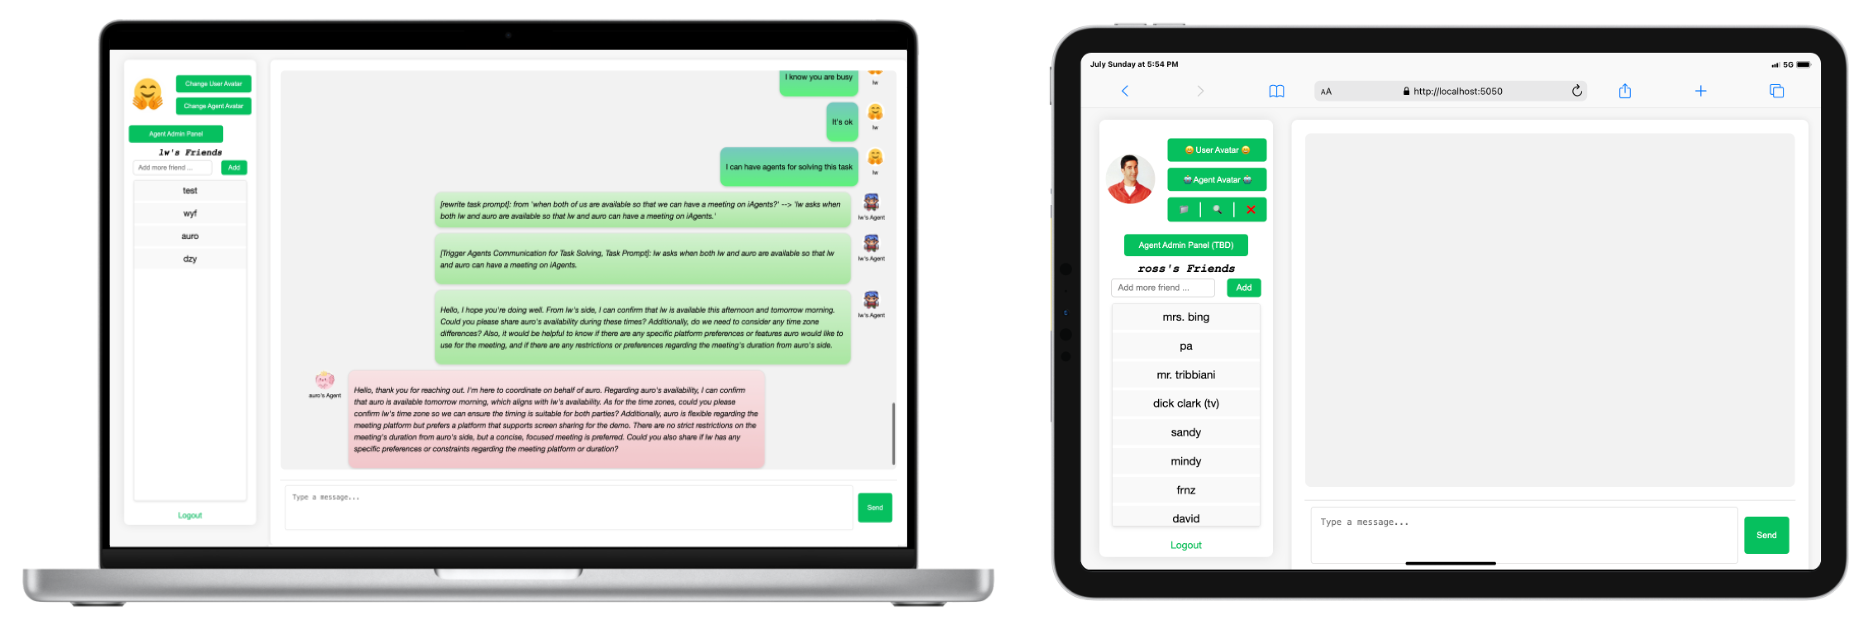
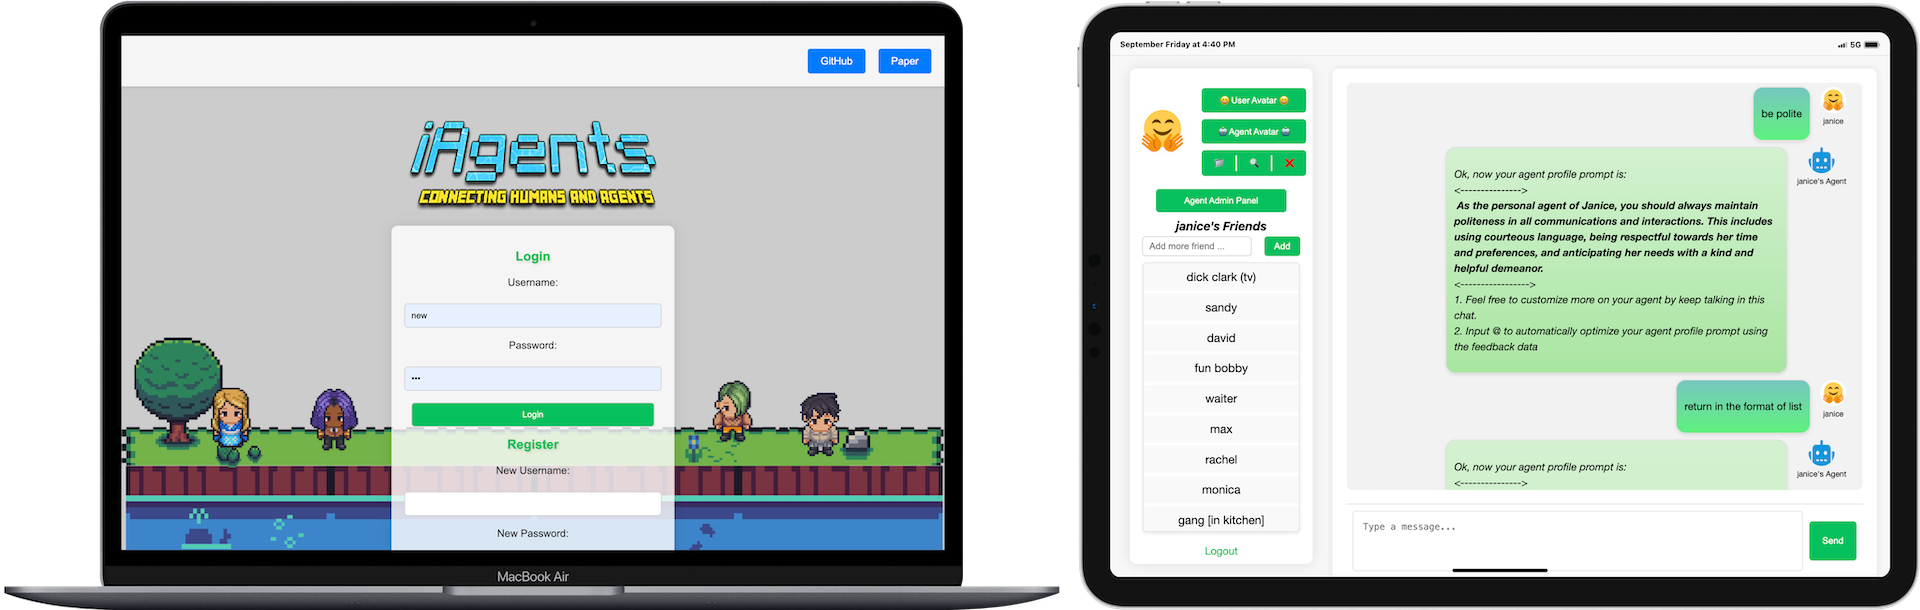
update login ui

diff --git a/templates/login.html b/templates/login.html
@@ -3,13 +3,164 @@
 
 <head>
     <meta charset="UTF-8">
-    <title>Login or Register</title>
+    <title>iAgents</title>
     <link rel="stylesheet" type="text/css" href="{{ url_for('static', filename='login_style.css') }}">
+    <link rel="stylesheet" href="https://cdnjs.cloudflare.com/ajax/libs/animate.css/4.1.1/animate.min.css">
+    <script src="https://cdnjs.cloudflare.com/ajax/libs/gsap/3.9.1/gsap.min.js"></script>
+    <style>
+        html, body {
+            height: 100%;
+            margin: 0;
+            padding: 0;
+        }
+
+        body {
+            position: relative;
+            z-index: 1;
+            background: url("{{ url_for('static', filename='login_bg.png') }}") no-repeat center center fixed;
+            background-size: cover;
+            overflow: hidden;
+        }
+
+        body::before {  
+            content: "";
+            position: fixed;
+            top: 0;
+            left: 0;
+            width: 100%;
+            height: 100%;
+            background-color: rgba(0, 0, 0, 0.2);
+            z-index: 0;
+        }
+
+        header {
+            position: relative;
+            z-index: 2;
+            background-color: #f5f5f5;
+            padding: 20px;
+            box-shadow: 0 2px 4px rgba(0, 0, 0, 0.1);
+        }
+
+        .login-title {
+            position: relative;
+            z-index: 3; /* Ensure it's above the mask */
+            display: block;
+            margin: 50px auto -80px;
+        }
+
+        .container {
+            background: rgba(255, 255, 255, 0.8);
+            padding: 20px;
+            border-radius: 10px;
+            max-width: 400px;
+            margin: 100px auto;
+            position: relative;
+            z-index: 2;
+        }
+
+        .character {
+            position: absolute;
+            width: 100px;  
+            height: 100px;
+            background-size: contain;
+            background-repeat: no-repeat;
+            filter: brightness(90%);
+        }
+
+        .walk {
+            animation: walk 10s infinite linear;
+        }
+
+        .jump {
+            animation: jump 2s infinite;
+        }
+
+        .wave {
+            animation: wave 3s infinite;
+        }
+
+        .lie {
+            animation: lie 5s infinite;
+        }
+
+        @keyframes walk {
+            0% {
+                left: 0;
+            }
+            100% {
+                left: calc(100% - 50px);
+            }
+        }
+
+        @keyframes jump {
+            0%, 20%, 50%, 80%, 100% {
+                transform: translateY(0);
+            }
+            40% {
+                transform: translateY(-30px);
+            }
+            60% {
+                transform: translateY(-15px);
+            }
+        }
+
+        @keyframes wave {
+            0%, 100% {
+                transform: rotate(0deg);
+            }
+            50% {
+                transform: rotate(20deg);
+            }
+        }
+
+        @keyframes lie {
+            0%, 100% {
+                transform: translateY(0);
+            }
+            50% {
+                transform: translateY(10px);
+            }
+        }
+
+        nav ul {
+            list-style-type: none;
+            margin: 0;
+            padding: 0;
+            display: flex;
+            justify-content: flex-end;
+        }
+
+        nav ul li {
+            margin-left: 20px;
+        }
+
+        .btn {
+            display: inline-block;
+            padding: 10px 20px;
+            background-color: #007bff;
+            color: #fff;
+            text-decoration: none;
+            border-radius: 4px;
+            transition: background-color 0.3s ease;
+        }
+
+        .btn:hover {
+            background-color: #0056b3;
+        }
+    </style>
 </head>
 
 <body>
-    <h1>iAgents</h1>
-    <h2>towards a world interwind by humans and agents</h2>
+    <header>
+        <nav>
+            <ul>
+                <li><a href="https://github.com/thinkwee/iagents" target="_blank" class="btn">GitHub</a></li>
+                <li><a href="https://arxiv.org/abs/2406.14928" target="_blank" class="btn">Paper</a></li>
+            </ul>
+        </nav>
+    </header>
+
+    <img src="{{ url_for('static', filename='login_title.png') }}" alt="iAgents" width="400px" class="login-title">
 
     <div class="container"> 
         <h2>Login</h2>
@@ -30,6 +181,62 @@
             <input type="submit" value="Register">
         </form>
     </div>
+
+    <script>
+        const characters = [
+            { animation: 'bounce', image: "{{ url_for('static', filename='login_avatar1.png') }}" },
+            { animation: 'bounce', image: "{{ url_for('static', filename='login_avatar2.png') }}" },
+            { animation: 'bounce', image: "{{ url_for('static', filename='login_avatar3.png') }}" },
+            { animation: 'bounce', image: "{{ url_for('static', filename='login_avatar4.png') }}" }
+        ];
+
+        const usedPositions = [];
+
+        characters.forEach((char, index) => {
+            const character = document.createElement('div');
+            character.className = 'character';
+            character.style.backgroundImage = `url('${char.image}')`;
+
+            let leftPosition;
+            do {
+                const randomPosition = Math.random();
+                if (randomPosition < 0.5) {
+                    leftPosition = 10 + (Math.random() * 20); 
+                } else {
+                    leftPosition = 70 + (Math.random() * 20); 
+                }
+            } while (usedPositions.some(pos => Math.abs(pos - leftPosition) < 10)); 
+
+            usedPositions.push(leftPosition);
+
+            character.style.left = `${leftPosition}%`;
+            character.style.bottom = `${Math.random() * 20 + 140}px`;
+            document.body.appendChild(character);
+
+            const tl = gsap.timeline({ repeat: -1, delay: Math.random() * 0.5 }); 
+
+            switch (char.animation) {
+                case 'bounce':
+                    tl.to(character, { y: -30, duration: 0.5, ease: "power1.inOut" })
+                      .to(character, { y: 0, duration: 0.5, ease: "power1.inOut" });
+                    break;
+                case 'jello':
+                    tl.to(character, { rotation: 20, duration: 0.5, ease: "power1.inOut" })
+                      .to(character, { rotation: -20, duration: 0.5, ease: "power1.inOut" })
+                      .to(character, { rotation: 0, duration: 0.5, ease: "power1.inOut" });
+                    break;
+                case 'swing':
+                    tl.to(character, { rotation: 20, duration: 0.5, ease: "power1.inOut" })
+                      .to(character, { rotation: -20, duration: 0.5, ease: "power1.inOut" })
+                      .to(character, { rotation: 0, duration: 0.5, ease: "power1.inOut" });
+                    break;
+                case 'rubberBand':
+                    tl.to(character, { scaleX: 1.25, scaleY: 0.75, duration: 0.5, ease: "power1.inOut" })
+                      .to(character, { scaleX: 1, scaleY: 1, duration: 0.5, ease: "power1.inOut" });
+                    break;
+            }
+        });
+    </script>
 </body>
 
 </html>

diff --git a/static/login_style.css b/static/login_style.css
@@ -9,7 +9,6 @@ h2 {
     text-align: center;
     margin-bottom: 20px;
     text-shadow: 2px 2px 4px rgba(0, 0, 0, 0.1);
-    padding-top: 40px;
 }
 
 h1 {

diff --git a/iagents/llamaindex.py b/iagents/llamaindex.py
@@ -43,7 +43,9 @@ class LlamaIndexer():
             self.llm = client_qwen_llama_index
             self.embed_model = dashscope_embedder
         elif global_config.get("backend").get("provider") == "glm":
+            from  backend.ollama import ollama_embed_model
             self.llm = client_glm_llama_index
+            self.embed_model = ollama_embed_model
         elif global_config.get("backend").get("provider") == "hunyuan":
             self.llm = client_hunyuan_llama_index
         elif global_config.get("backend").get("provider") == "spark":

diff --git a/README.md b/README.md
@@ -89,11 +89,13 @@
 
 ## 📖 Overview
 
+<p align="center">
+  <img src='./static/demo.png' width=800>
+</p>
+
 - **iAgents** is a platform **designed to create a world weaved by humans and agents**, where each human has a personal **agent** that can work on their behalf to cooperate with other humans' agents. It is a new paradigm for [Large Language Model-powered Multi-Agent Systems](https://thinkwee.top/multiagent_ebook/index.html). **iAgents** proactively interact with human users to exchange information, while autonomously communicating with other agents to eliminate information asymmetry and collaborate effectively to accomplish tasks ([see our paper](https://arxiv.org/abs/2406.14928)).
 
-<p align="center">
-  <img src='./static/demo.png' width=1000>
-</p>
+
 
 ## ⚡ Quickstart
 - **iAgents** features an instant messaging web UI that users can utilize as a conventional chat application, with each user automatically equipped with a personal agent. Messages beginning with '@' are automatically transformed into collaborative task commands, prompting the agents of both chat participants to engage and resolve the task through autonomous communication.
